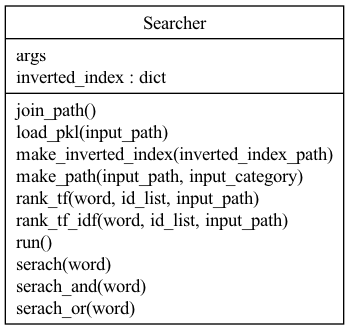
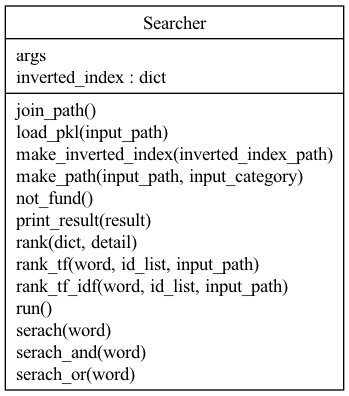
merge

Changed region(s): [[0.0, 0.0, 1.0, 1.0]]

diff --git a/searcher.py b/searcher.py
@@ -15,7 +15,6 @@ import os
 from re import S
 import sys
 import pickle
-import matplotlib.pyplot as plt
 from argparse import ArgumentParser
 from argparse import ArgumentDefaultsHelpFormatter
 
@@ -79,6 +78,7 @@ class Searcher:
     def make_inverted_index(self,inverted_index_path):
         """
         バイナリファイルを読み込み転置インデックスを結合し返す
+        setに変える
         """
         # 転置インデックスを読み込み配列に入れる
         inverted_index_list = []
@@ -91,7 +91,7 @@ class Searcher:
             for word in tmp_index:
                 # キーが存在した場合
                 if word in inverted_index:
-                    inverted_index[word] += tmp_index[word]
+                    inverted_index[word] |= tmp_index[word]
                 # キーが存在しなかった場合
                 else:
                     inverted_index[word] = tmp_index[word]
@@ -113,14 +113,10 @@ class Searcher:
         見つからなければプログラムを終了する
         """
         if word in self.inverted_index:
-            print(len(self.inverted_index[word]),end='')
-            print('個の文書が見つかりました :',end='')
-            print(self.inverted_index[word])
-            print('')
+            self.print_result(self.inverted_index[word])
             return self.inverted_index[word]
         else:
-            print('文書が見つかりませんでした。')
-            sys.exit()
+            self.not_fund()
 
     
     def serach_and(self, word):
@@ -129,46 +125,54 @@ class Searcher:
         見つからなければプログラムを終了する
         """
         # 38 速報
-        index = []
         result = set()
         if word[0] in self.inverted_index and word[1] in self.inverted_index:
-            index.append(self.inverted_index[word[0]])
-            index.append(self.inverted_index[word[1]])
-            result = set(index[0]) & set(index[1])
+            for tmp_id in self.inverted_index[word[0]]:
+                if tmp_id in self.inverted_index[word[1]]: 
+                    result.add(tmp_id)
+                    continue
             if len(result) >= 1:
-                print(len(result),end='')
-                print('個の文書が見つかりました :',end='')
-                print(result)
+                self.print_result(result)
                 return result
             else:
-                print('文書が見つかりませんでした。')
-                sys.exit()
+                self.not_fund()
         else:
-            print('文書が見つかりませんでした。')
-            sys.exit()
+            self.not_fund()
 
     def serach_or(self, word):
         """
         転置インデックスからワードをOR検索し文書id一覧を返す。
         見つからなければプログラムを終了する
         """
-        index = []
         result = set()
         if word[0] in self.inverted_index or word[1] in self.inverted_index:
-            index.append(self.inverted_index[word[0]])
-            index.append(self.inverted_index[word[1]])
-            result = set(index[0]) | set(index[1])
+            for tmp_id in self.inverted_index[word[0]]: result.add(tmp_id)
+            for tmp_id in self.inverted_index[word[1]]: result.add(tmp_id)
             if len(result) >= 1:
-                print(len(result),end='')
-                print('個の文書が見つかりました :',end='')
-                print(result)
+                self.print_result(result)
                 return result
             else:
-                print('文書が見つかりませんでした。')
-                sys.exit()
+                self.not_fund()
         else:
-            print('文書が見つかりませんでした。')
-            sys.exit()
+            self.not_fund()
+
+    @staticmethod
+    def not_fund():
+        """
+        文書が見つからないことを表示し、プログラムを終了します
+        """
+        print('文書が見つかりませんでした。')
+        sys.exit()
+    
+    @staticmethod
+    def print_result(result):
+        """
+        入力されたセットから結果を表示します。
+        """
+        print(len(result),end='')
+        print('個の文書が見つかりました :',end='')
+        print(result)
+
 
 
         
@@ -191,16 +195,7 @@ class Searcher:
             if tmp_id in id_list:
                 tfidf_list[tmp_id] = load_tfidf_list[tmp_id]
 
-        # tf-idfでランキングを作成する(ランク高い順でidの辞書を作成
-        score_sorted = sorted(tfidf_list.items(), reverse=True, key=lambda x:x[1])
-        print('マッチした文章をtf-idfでランキングします')
-        i = 0
-        for tmp_tuple in score_sorted:
-            i += 1
-            print('{: ^5}'.format(i), end=' ')
-            print('{: ^15}'.format(tmp_tuple[0]), end=' ')
-            print(tmp_tuple[1])
-        print('')
+        self.rank(tfidf_list, 'マッチした文章をtf-idfでランキングします')
 
     def rank_tf(self, word, id_list, input_path):
         """
@@ -219,9 +214,16 @@ class Searcher:
             if tmp_id in id_list:
                 tf_list[tmp_id] = load_tf_list[tmp_id]
 
-        # tfでランキングを作成する(ランク高い順でidの辞書を作成
-        score_sorted = sorted(tf_list.items(), reverse=True, key=lambda x:x[1])
-        print('マッチした文章をtfでランキングします')
+        self.rank(tf_list, 'マッチした文章をtfでランキングします')
+
+    @staticmethod
+    def rank(dict, detail='ランキング表示します'):
+        """
+        入力の値からランキング表示します
+        input: {文書id:値}, 表示するテキスト
+        """
+        score_sorted = sorted(dict.items(), reverse=True, key=lambda x:x[1]) # ランク高い順でidの辞書を作成
+        print(detail)
         i = 0
         for tmp_tuple in score_sorted:
             i += 1
@@ -229,6 +231,8 @@ class Searcher:
             print('{: ^15}'.format(tmp_tuple[0]), end=' ')
             print(tmp_tuple[1])
         print('')
+
+
 
 
             
